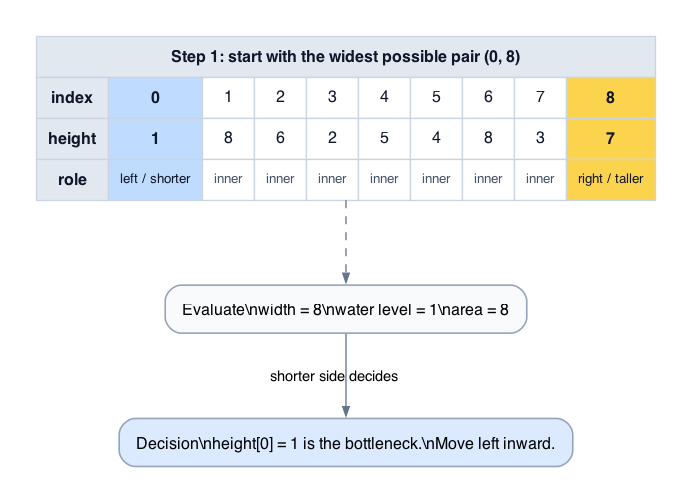
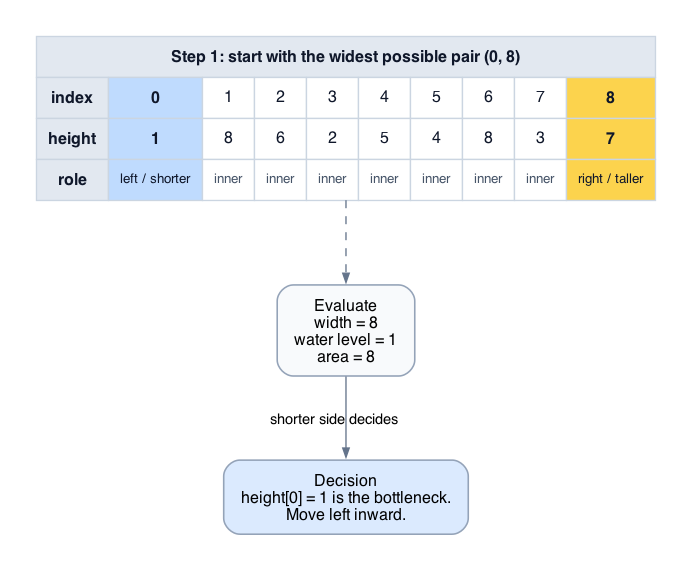
fix(11): render Graphviz note labels as real line breaks
Fix the Graphviz label builder so note boxes use actual newline characters instead of rendering literal `\n` text.

Regenerate the full 18-image visual set for the container-with-most-water README and re-run the image-audit workflow. This resolves the workflow failure caused by unreadable note-box labels.

Changed region(s): [[0.0303, 0.0596, 0.9711, 0.4175], [0.1517, 0.7157, 0.8497, 0.9543], [0.2428, 0.4771, 0.7587, 0.6859]]

diff --git a/011-container-with-most-water/generate_visuals.py b/011-container-with-most-water/generate_visuals.py
@@ -72,7 +72,7 @@ def table(rows: list[list[str]]) -> str:
 
 
 def note_node(name: str, title: str, lines: list[str], *, fill: str = "#FFFFFF") -> str:
-    label = "\\n".join([title, *lines])
+    label = "\n".join([title, *lines])
     return (
         f'{name} [shape=box style="rounded,filled" fillcolor="{fill}" '
         f'color="#94A3B8" penwidth=1.2 margin="0.18,0.12" '
